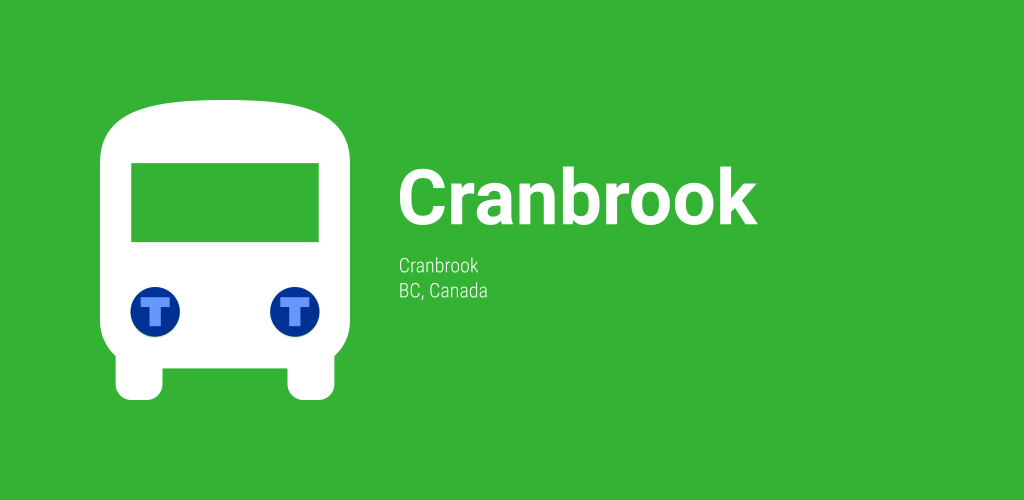
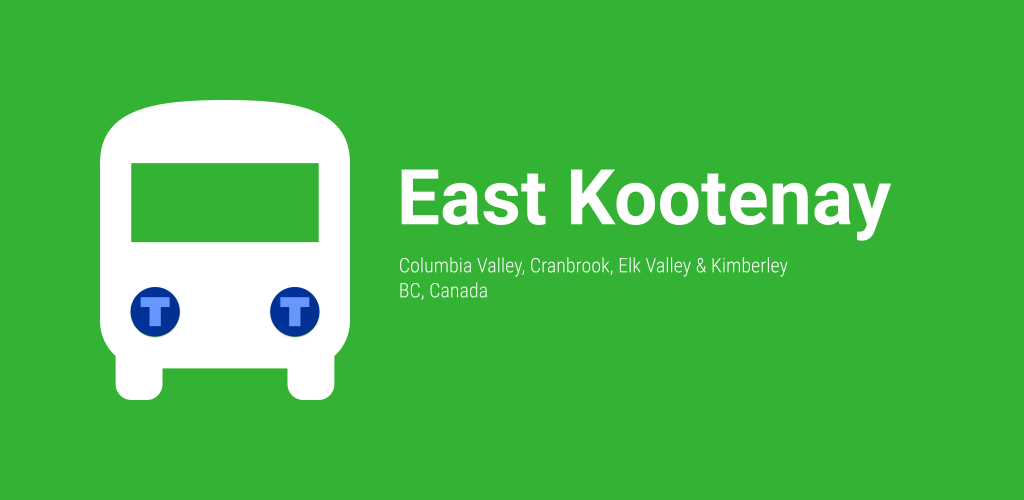
store listing

Changed region(s): [[0.375, 0.33, 0.875, 0.48], [0.4062, 0.51, 0.7812, 0.57]]

diff --git a/README.md b/README.md
@@ -1,8 +1,9 @@
-# Cranbrook Transit System (BC Transit) for [MonTransit](https://github.com/mtransitapps/mtransit-for-android)
+<!-- DO NOT EDIT: this file is generated by MTREADME.md.MT.sh -->
+# East Kootenay region (BC Transit) buses for [MonTransit](https://github.com/mtransitapps/mtransit-for-android)
 
 <img width="25%" height="25%" src="app-android/src/main/play/listings/en-US/graphics/icon/1.png"/>
 
-## Download on Google Play
+## Download on the Play Store
 
 <a href="https://play.google.com/store/apps/details?id=org.mtransit.android.ca_cranbrook_transit_system_bus"><img width="25%" height="25%" src="https://play.google.com/intl/en_us/badges/static/images/badges/en_badge_web_generic.png"/></a>
 
@@ -16,9 +17,7 @@
 
 ## Social
 
-* [Facebook](https://www.facebook.com/MonTransit)
-
-* [Twitter](https://twitter.com/montransit)
+[Facebook](https://www.facebook.com/MonTransit) | [Twitter/X](https://twitter.com/montransit) | [Instagram](https://www.instagram.com/mtransit.apps) | [Threads](https://www.threads.com/@mtransit.apps)
 
 ## BETA program
 
